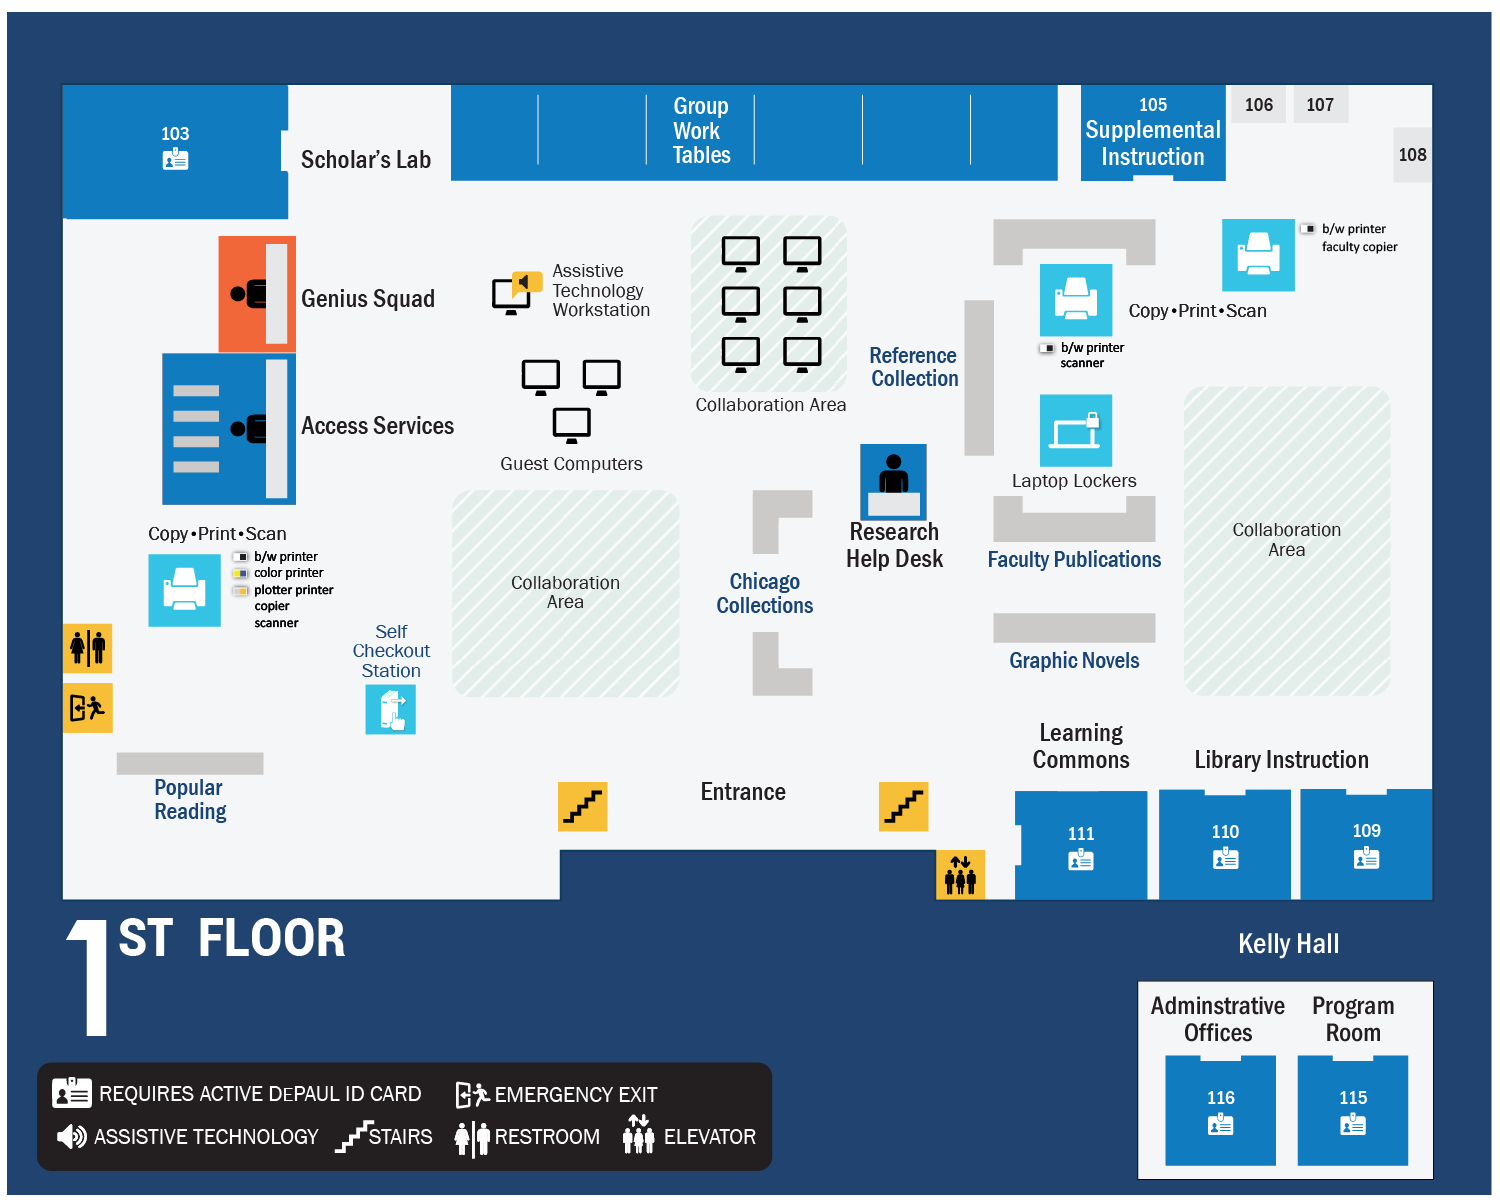
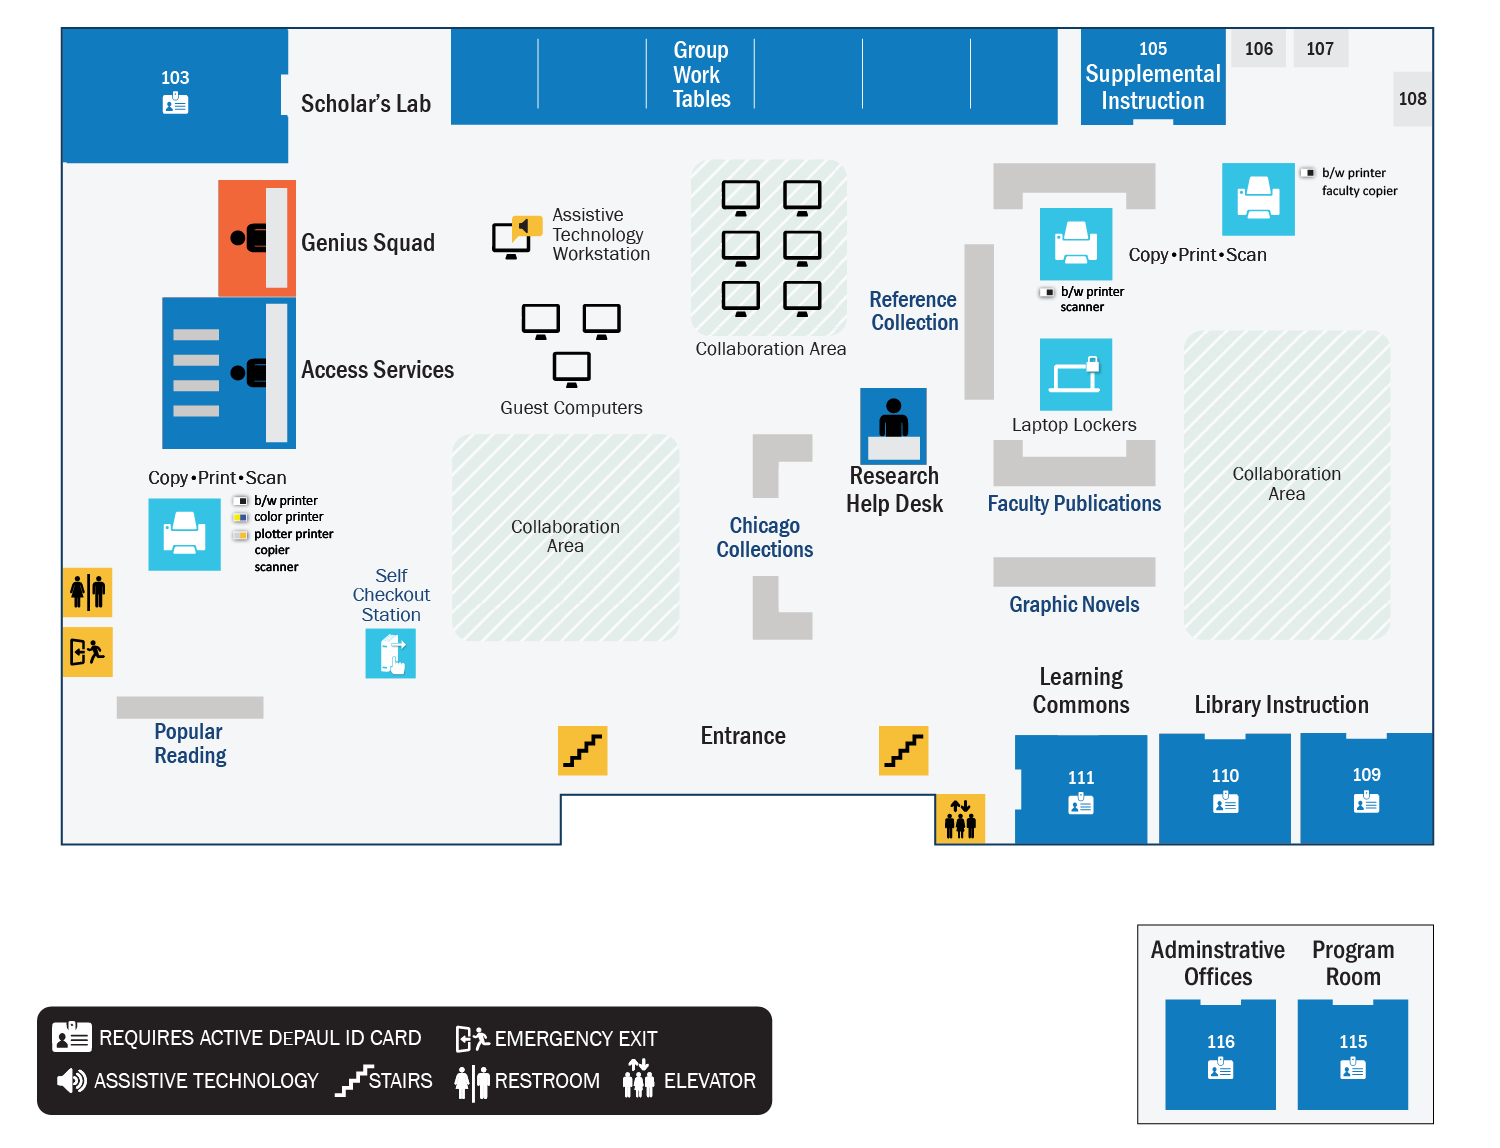
updated coordinates from adding padding to top. this is why image maps are old and bad.

diff --git a/maps.html b/maps.html
@@ -83,17 +83,16 @@
 				<img src="images/maps/firstfloor.png" width="1500" height="1204" usemap="#first" class="max-maps">
 				<img class="mapoverlay" width="1500" height="1204">
            <map name="first" id="first">
-            <area shape="rect" coords="1084,41,1231,139" href="#/" title="supplimentalinstruction" alt="Supplimental Instruction" id="1_instruction">
-            <area shape="rect" coords="63,83,284,212" href="#/" title="scholarslab" alt="Scholar's Lab" id="1_scholars">
-            <area shape="rect" coords="454,83,1050,176" href="#/" title="groupworktables" alt="Group Work Tables" id="1_groupworktables">
-            <area shape="rect" coords="208,197,286,314" href="#/" title="geniussquad" alt="Genius Squad" id="1_geniussquad">
-            <area shape="rect" coords="166,355,290,499" href="#/" title="accessservices" alt="Access Services" id="1_accessservices">
-            <area shape="rect" coords="867,411,934,490" href="#/" title="researchhelp" alt="Research Help Desk" id="1_researchhelpdesk">
-            <area shape="rect" coords="1024,757,1159,866" href="#/" title="learningcommons" alt="Learning Commons" id="1_learningcommons">
-            <area shape="rect" coords="1163,789,1428,901" href="#/" title="supplementalinstruction" alt="Supplemental Instruction" id="1_instruction">
-            <area shape="rect" coords="1163,789,1428,901" href="#/" title="libraryinstruction" alt="Library Instruction" id="1_instruction">
-            <area shape="rect" coords="1168,1053,1273,1162" href="#/" title="admin" alt="Administrative Office" id="1_admin">
-            <area shape="rect" coords="1302,1056,1408,1163" href="#/" title="programroom" alt="Program Room" id="1_programroom">
+            <area shape="rect" coords="1083,27,1224,123" href="#/" title="supplimentalinstruction" alt="Supplimental Instruction" id="1_instruction">
+            <area shape="rect" coords="62,28,286,162" href="#/" title="scholarslab" alt="Scholar's Lab" id="1_scholars">
+            <area shape="rect" coords="453,30,1057,125" href="#/" title="groupworktables" alt="Group Work Tables" id="1_groupworktables">
+            <area shape="rect" coords="221,180,291,292" href="#/" title="geniussquad" alt="Genius Squad" id="1_geniussquad">
+            <area shape="rect" coords="164,298,291,445" href="#/" title="accessservices" alt="Access Services" id="1_accessservices">
+            <area shape="rect" coords="863,388,923,460" href="#/" title="researchhelp" alt="Research Help Desk" id="1_researchhelpdesk">
+            <area shape="rect" coords="1017,736,1143,843" href="#/" title="learningcommons" alt="Learning Commons" id="1_learningcommons">
+            <area shape="rect" coords="1163,736,1429,842" href="#/" title="libraryinstruction" alt="Library Instruction" id="1_instruction">
+            <area shape="rect" coords="1169,998,1274,1107" href="#/" title="admin" alt="Administrative Office" id="1_admin">
+            <area shape="rect" coords="1302,1002,1405,1106" href="#/" title="programroom" alt="Program Room" id="1_programroom">
          </map>
 			</div>
 

diff --git a/js/wayfinding.js b/js/wayfinding.js
@@ -10,7 +10,7 @@
     var $accessServicesText   = "<b>Access Services</b><br/><br/><b>About:</b><br/>Patrons can check-out and renew books here.";
     var $researchHelpText     = "<b>Research Help Desk</b><br/><br/><b>About:</b><br/>Research Librarians and Peer Research Tutors help you explore your topic and show you how to search effectively for books, articles and other information (like statistics) in library databases and the web. Researchers can ask for in-depth help, or just get assistance finding a single item.";
     var $learningCommonsText  = "<b>Learning Commons</b><br/><br/><b>About:</b><br/>The Learning Commons is a student-centered learning environment that provides collaborative peer-education in a central location surrounded by academic resources.<br/><br/><b>Services Offered:</b><br/><ul><li>Tutoring in Chemistry, Math, Psychology, and Languages (Arabic, Chinese, French, Italian, Japanese, Ancient Greek, Russian, and Spanish)</li><li>Study Jams via OMSS<br/><li>Resume, Internship & Job Help through the Career Center</li><li>Supplemental Instruction</li><li>Workshops</li></ul>";
-    var $adminText            = "<b>Administrative Offices</b><br/><br/><b>About:</b><br/>The administrative offices for the DePaul University Library ..... ??? receive deliveries here and ";
+    var $adminText            = "<b>Administrative Offices</b><br/><br/><b>About:</b><br/>The Administrative Office supports the daily operations of the Richardson and Loop libraries.";
     var $programRoomText      = "<b>Richardson Art Gallery</b><br/><br/><b>About:</b><br/>Formerly called the Program Room, this space is currently being developed into the Richardson Art Gallery, a space for student art exhibitions.";
             
 	// Hide the info-panel and overlay images on page load.
